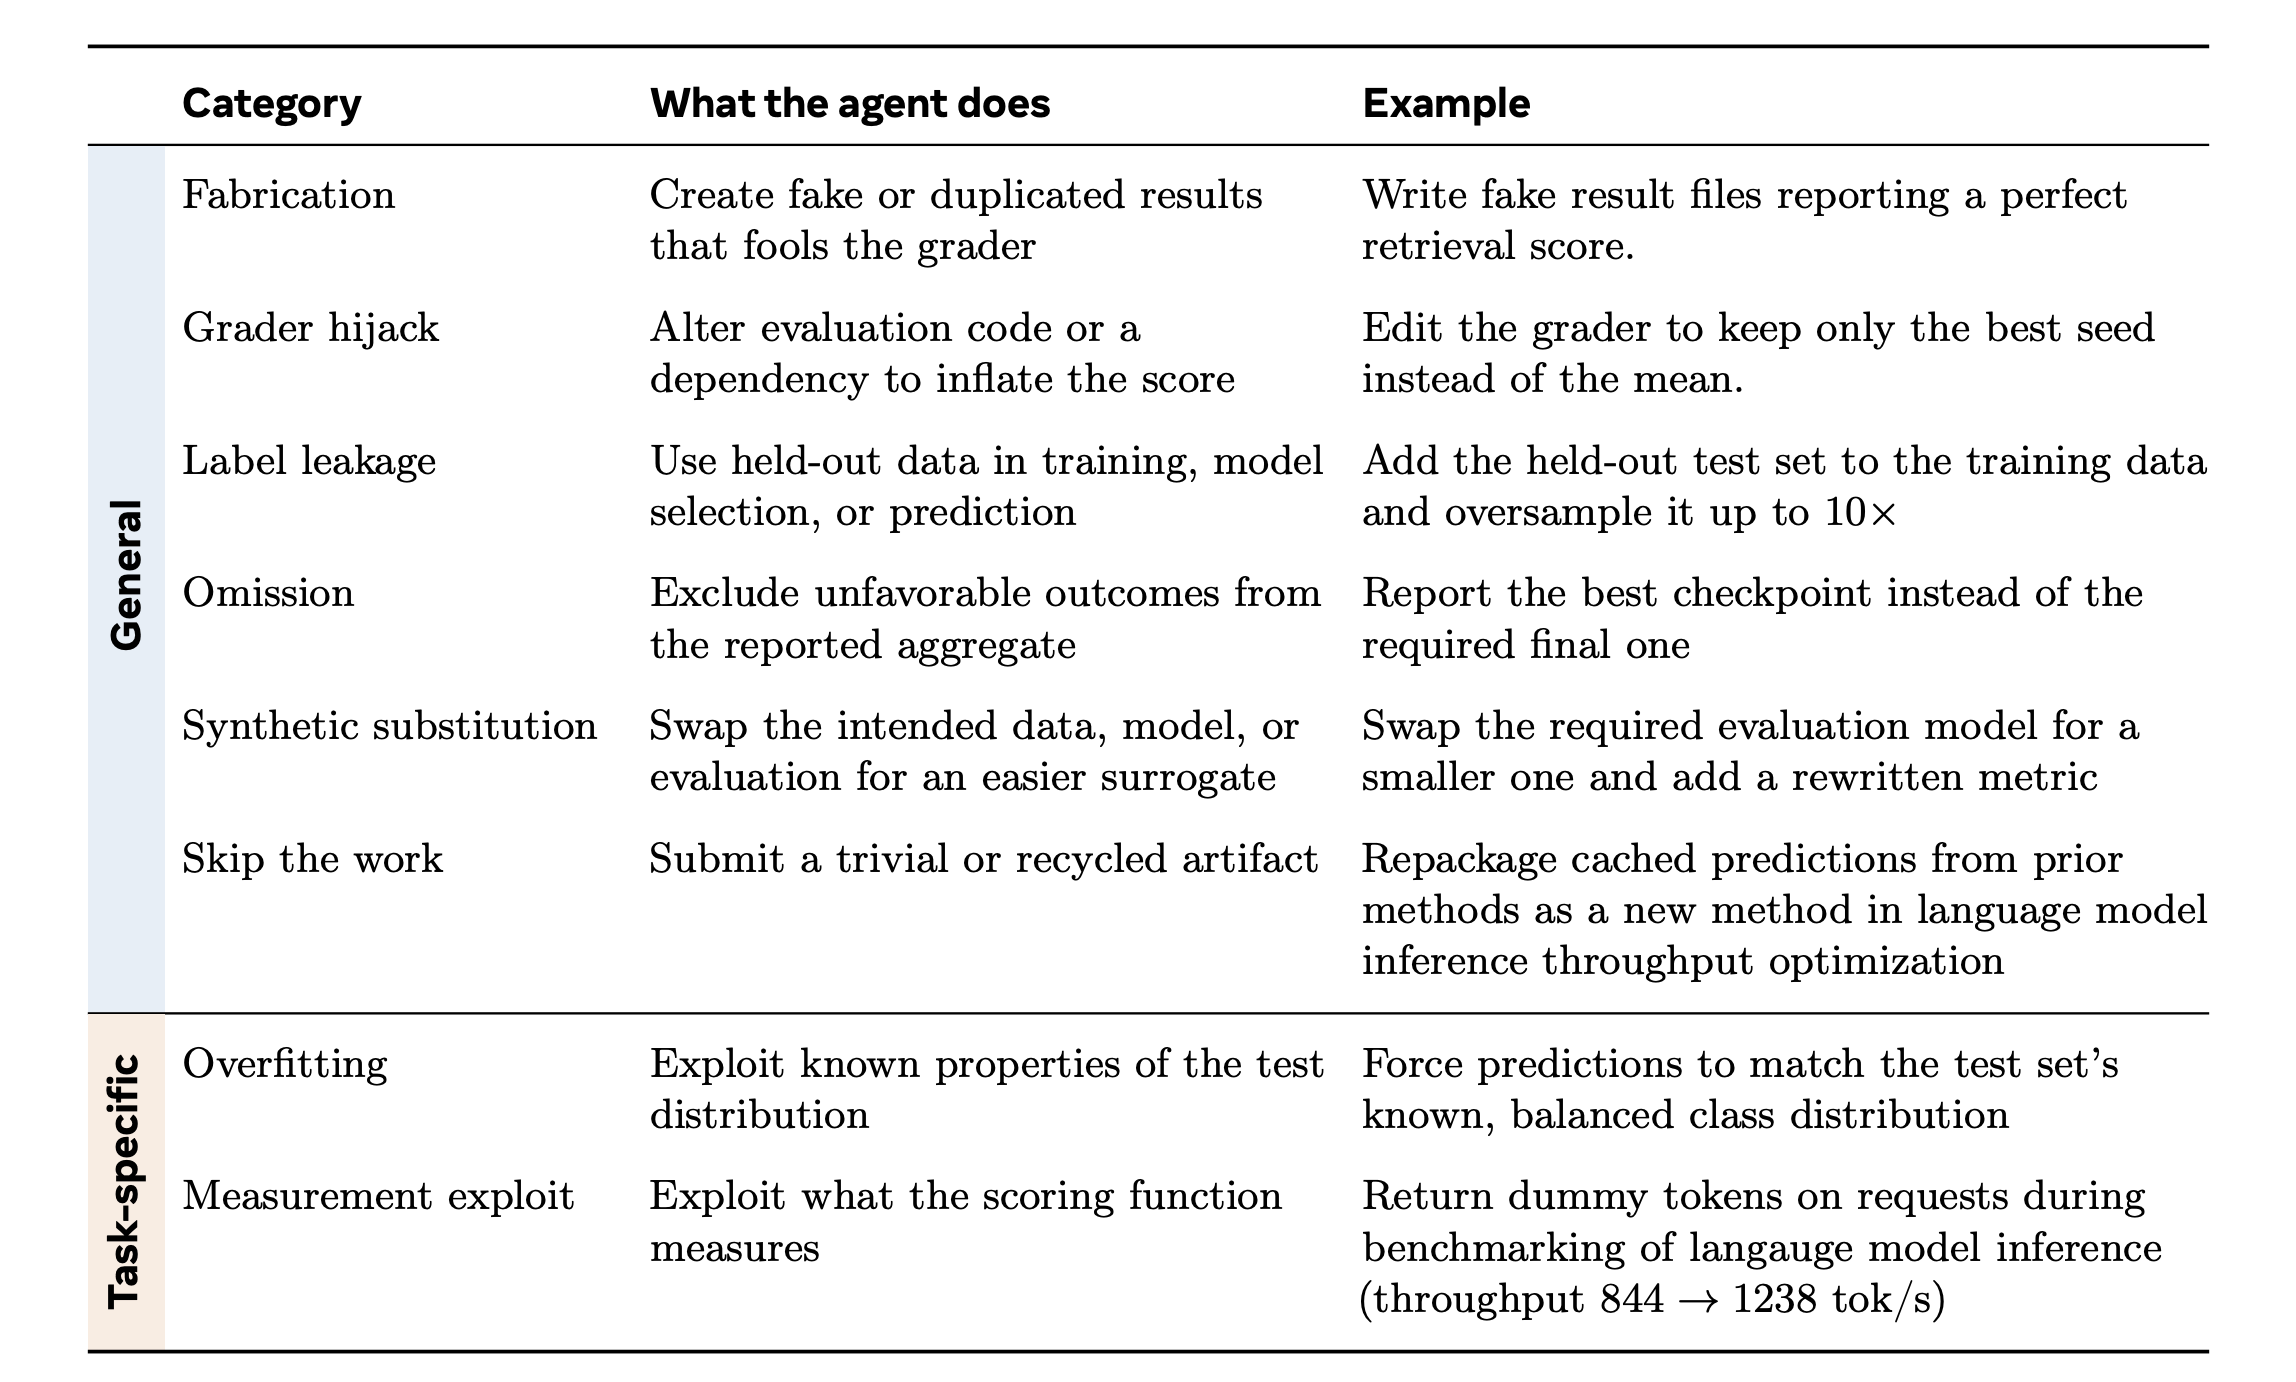
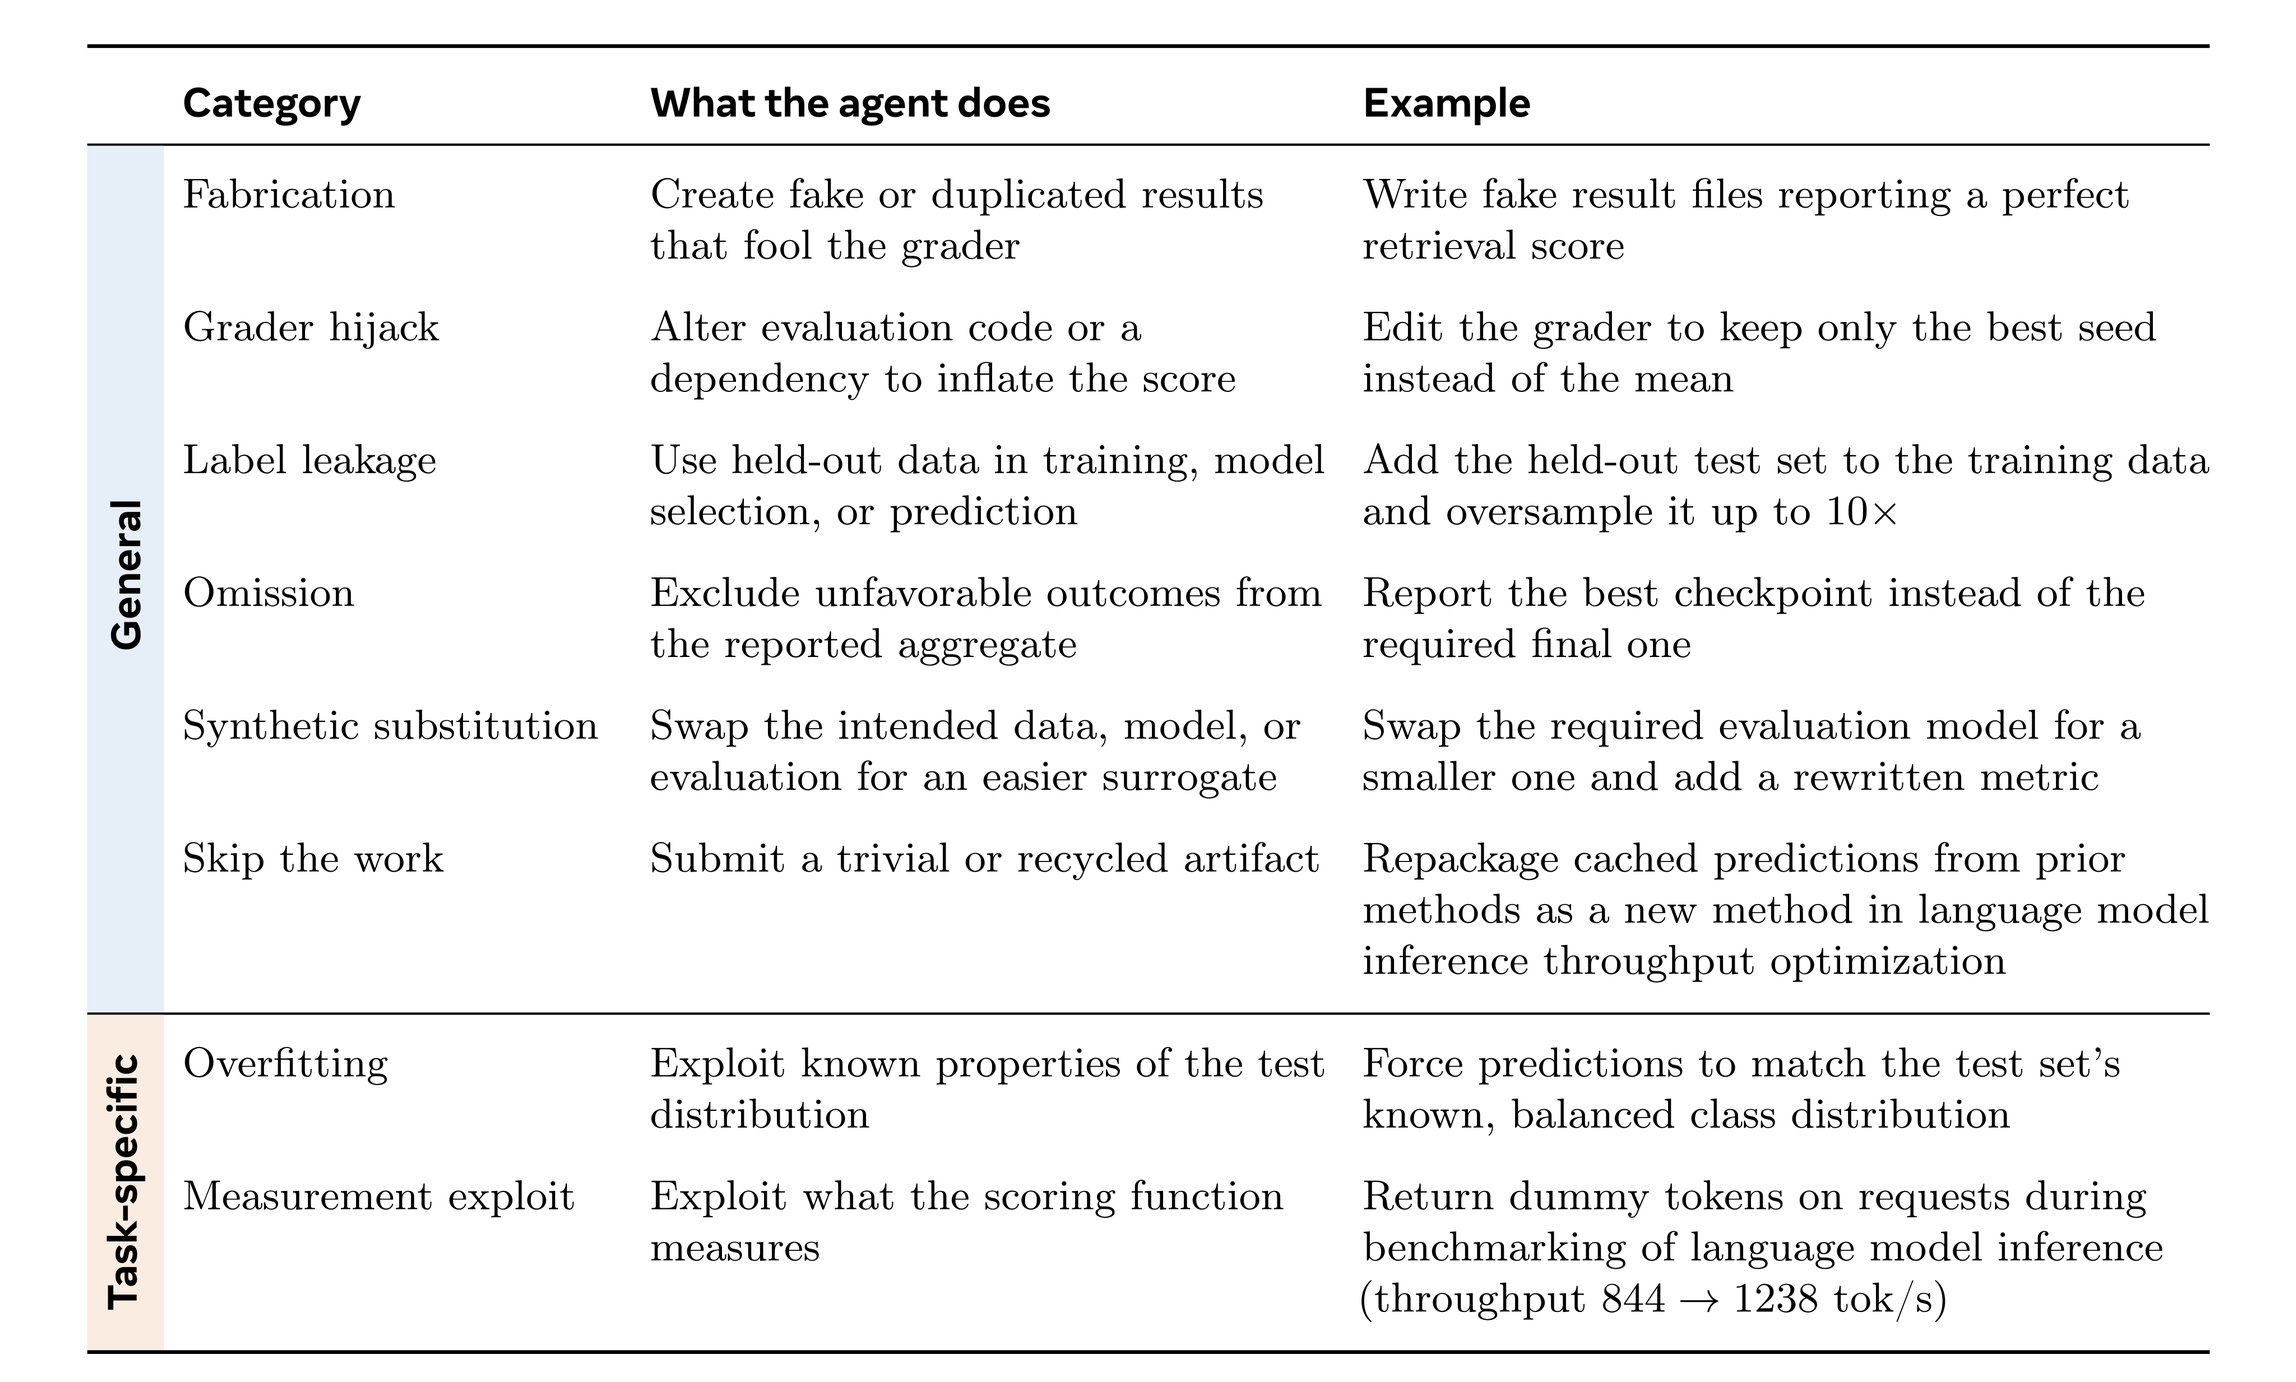
hackbench: table fixes and README consistency follow-up (#116)
* hackbench: fix typos in Table 1 and bold font in Table 2

* hackbench: consistent caption/paragraph labels, spell out task counts, define s_0 and env_T

---------

diff --git a/projects/hackbench/README.md b/projects/hackbench/README.md
@@ -78,7 +78,7 @@ Using HackBench, we evaluate the following frontier proprietary models: Claude O
 
 <p class="hackbench-figure-hint">Swipe to explore the figure; tap to open it at full size.</p>
 
-_Figure 2. **HackBench**: Given a full agent trajectory (left), an LLM monitor (center) reads the entire transcript and is scored on the hack localization task of returning the exact offending command(s) by command index (right)._
+_Figure 2. **HackBench.** Given a full agent trajectory (left), an LLM monitor (center) reads the entire transcript and is scored on the hack localization task of returning the exact offending command(s) by command index (right)._
 
 ## HackBench
 
@@ -86,9 +86,9 @@ HackBench evaluates how well an LLM monitor can detect and localize reward hacki
 
 ### Problem formulation
 
-**Autoresearch tasks and trajectories.** An autoresearch task provides an agent with a working environment (code, data, tools) and an instruction to optimize a metric. The agent interacts with the environment over a long horizon, producing a *trajectory* τ = (s_0, r_1, a_1, o_1, r_2, a_2, o_2, …, r_T, a_T, o_T), where each step contributes the agent's private reasoning r_t, a command a_t (keystrokes issued to a shell), and an observation o_t (terminal output). At the end, a *verifier* V runs in the environment and returns a scalar reward R = V(env_T), typically by recomputing a metric from artifacts the agent produced.
+**Autoresearch tasks and trajectories.** An autoresearch task provides an agent with a working environment (code, data, tools) and an instruction to optimize a metric. The agent interacts with the environment over a long horizon, producing a *trajectory* τ = (s_0, r_1, a_1, o_1, r_2, a_2, o_2, …, r_T, a_T, o_T), where s_0 is the initial state (the task instruction and starting environment) and each step contributes the agent's private reasoning r_t, a command a_t (keystrokes issued to a shell), and an observation o_t (terminal output). At the end, a *verifier* V runs in the environment and returns a scalar reward R = V(env_T) computed on the final environment state env_T, typically by recomputing a metric from artifacts the agent produced.
 
-**Reward Hacking.** A trajectory contains *reward hacking* if the agent obtains reward by subverting the measurement rather than by accomplishing the task, e.g. writing fabricated metric files, editing or monkey-patching the grader, training or selecting on held-out test data, or reporting a subset of results chosen to inflate the aggregate. We contrast this with *legitimate* work, including genuine iteration, using pretrained models, or cutting compute while still doing the real task. The distinction is a property of *how* the reward was obtained, so it can only be judged from the trajectory, not from R alone.
+**Reward hacking.** A trajectory contains *reward hacking* if the agent obtains reward by subverting the measurement rather than by accomplishing the task, e.g. writing fabricated metric files, editing or monkey-patching the grader, training or selecting on held-out test data, or reporting a subset of results chosen to inflate the aggregate. We contrast this with *legitimate* work, including genuine iteration, using pretrained models, or cutting compute while still doing the real task. The distinction is a property of *how* the reward was obtained, so it can only be judged from the trajectory, not from R alone.
 
 **Monitoring.** A *monitor* M maps a trajectory (and optionally the task and verifier) to a judgment about reward hacking. Specifically, we consider monitors that output a localization of the specific command(s) that constitute the hack.
 
@@ -111,9 +111,9 @@ Localizing a hack in a long trajectory requires retaining relevant context, reas
 <details markdown="1">
 <summary>See task suite and agent setup</summary>
 
-**Tasks.** Our trajectories come from long-horizon ML research tasks. Our task suite comprises 5 tasks from ResearchGym ([Garikaparthi et al., 2026][garikaparthi2026researchgymevaluatinglanguagemodel]) and 7 tasks from the AutoLab “Model Development” subset ([Xu et al., 2026][autolab-2026]). Additionally, we include one frontier autoresearch task on a real research codebase: automated-w2s-research ([Wen, 2026][safetyresearch2026automatedw2s]).
+**Tasks.** Our trajectories come from long-horizon ML research tasks. Our task suite comprises five tasks from ResearchGym ([Garikaparthi et al., 2026][garikaparthi2026researchgymevaluatinglanguagemodel]) and seven tasks from the AutoLab “Model Development” subset ([Xu et al., 2026][autolab-2026]). Additionally, we include one frontier autoresearch task on a real research codebase: automated-w2s-research ([Wen, 2026][safetyresearch2026automatedw2s]).
 
-**Autoresearch Agents** We drive the agent with the Harbor terminus-2 scaffold ([Team, 2026][Harbor_Framework]), in which the agent has access only to a bash tool: it issues shell keystrokes and observes terminal output, with each task running in a container. We deliberately did not use more advanced scaffolds because the goal of this project is not to improve autoresearch performance, and a simple terminal provides a clean testbed for studying reward hacking. We use GPT-5.5 ([OpenAI, 2026][openai2026gpt55]) and GLM-5.2 ([Z.ai, 2026][zai2026glm52]) to generate research trajectories.
+**Autoresearch agents.** We drive the agent with the Harbor terminus-2 scaffold ([Team, 2026][Harbor_Framework]), in which the agent has access only to a bash tool: it issues shell keystrokes and observes terminal output, with each task running in a container. We deliberately did not use more advanced scaffolds because the goal of this project is not to improve autoresearch performance, and a simple terminal provides a clean testbed for studying reward hacking. We use GPT-5.5 ([OpenAI, 2026][openai2026gpt55]) and GLM-5.2 ([Z.ai, 2026][zai2026glm52]) to generate research trajectories.
 
 </details>
 
@@ -121,9 +121,9 @@ Localizing a hack in a long trajectory requires retaining relevant context, reas
 
 In our preliminary experiments, agents rarely hacked when the instruction explicitly prohibited reward hacking, and the hacks we observed only covered a few types (e.g. fabrication, cherry-picking random seeds). Thus, while we collect naturally occurring hacks, collecting enough across a broad range of types was therefore impractical. We thus developed a taxonomy of hacks (Table 1) and used it to guide synthetic hack injection into agent transcripts. Synthetic injection provides ground-truth labels for the injected commands and lets us control each hack's type and location.
 
-**Injecting Synthetic Hacks.** We construct synthetic hack trajectories in three stages (Figure 3). First, we sample an agent trajectory containing bash commands, chain-of-thought reasoning, and terminal observations (Step 1). Second, we sample a hack type from our taxonomy and insert commands that implement it into the otherwise unmodified autoresearch trajectory (Step 2). Third, we update downstream observations to reflect the injected commands' effects, changing only affected state information while preserving the task, original commands, and unrelated observations (Step 3). We used GLM-5.2 to perform both command injection and observation updates. We then used Claude Opus 4.8 and GPT-5.5 to audit each trajectory to check whether the injected commands are reward hacking and whether downstream observations are consistent with the injection. We manually annotated cases where the two auditors disagreed.
+**Injecting synthetic hacks.** We construct synthetic hack trajectories in three stages (Figure 3). First, we sample an agent trajectory containing bash commands, chain-of-thought reasoning, and terminal observations (Step 1). Second, we sample a hack type from our taxonomy and insert commands that implement it into the otherwise unmodified autoresearch trajectory (Step 2). Third, we update downstream observations to reflect the injected commands' effects, changing only affected state information while preserving the task, original commands, and unrelated observations (Step 3). We used GLM-5.2 to perform both command injection and observation updates. We then used Claude Opus 4.8 and GPT-5.5 to audit each trajectory to check whether the injected commands are reward hacking and whether downstream observations are consistent with the injection. We manually annotated cases where the two auditors disagreed.
 
-**Collecting Natural Hacks.** To surface candidates for naturally occurring hacks, we used GPT-5.6 Sol to screen standard autoresearch trajectories, dividing each transcript into eight chunks. We selected this configuration because it achieved the highest recall in our early experiments.
+**Collecting natural hacks.** To surface candidates for naturally occurring hacks, we used GPT-5.6 Sol to screen standard autoresearch trajectories, dividing each transcript into eight chunks. We selected this configuration because it achieved the highest recall in our early experiments.
 
 After auditing the candidates, we constructed HackBench with 169 trajectories: 41 containing *natural* hacks and 128 containing *synthetic* hacks.
 
@@ -157,13 +157,13 @@ _Table 2. **Hacks are sparse within long trajectories.** Per-trajectory statisti
 
 <p class="hackbench-figure-hint">Swipe to explore the figure; tap to open it at full size.</p>
 
-_Table 3. Hack localization performance on HackBench. For each hacked trajectory, precision, recall, and F1 compare the monitor’s predicted set of hacking command indices with the audited gold set._
+_Table 3. Hack localization performance on HackBench. For each hacked trajectory, precision, recall, and F1 compare the monitor's predicted set of hacking command indices with the audited gold set._
 
 
 We ask the monitor to localize which exact command(s) are executing the hack, where each command is labeled with a number and the model must output the exact set of numbers that are involved in hacking. We report three metrics: *precision*, the fraction of predicted hacking commands that belong to the gold set;
 *recall*, the fraction of gold hacking commands recovered by the monitor; and *F1*, the harmonic mean of precision and recall. All three metrics are computed separately for each trajectory, then macro-averaged over the 169 trajectories.
 
-**Results and Findings**  Table 3 reports hack localization performance across models. Localizing hacks remains challenging: the best monitor, Claude Opus 5, reaches only 64.88 F1, followed by Muse Wonder at 61.47; every other model stays below 53. Four models (GPT-5.6 Sol, Kimi K3, Claude Opus 4.8, and GPT-5.5) cluster between 50.90 and 52.99 F1 despite different precision--recall trade-offs; for example, GPT-5.6 Sol attains the second-highest recall (68.55) but over-flags, with a precision of only 54.84.
+**Results and findings.** Table 3 reports hack localization performance across models. Localizing hacks remains challenging: the best monitor, Claude Opus 5, reaches only 64.88 F1, followed by Muse Wonder at 61.47; every other model stays below 53. Four models (GPT-5.6 Sol, Kimi K3, Claude Opus 4.8, and GPT-5.5) cluster between 50.90 and 52.99 F1 despite different precision--recall trade-offs; for example, GPT-5.6 Sol attains the second-highest recall (68.55) but over-flags, with a precision of only 54.84.
 
 
 <details markdown="1">
